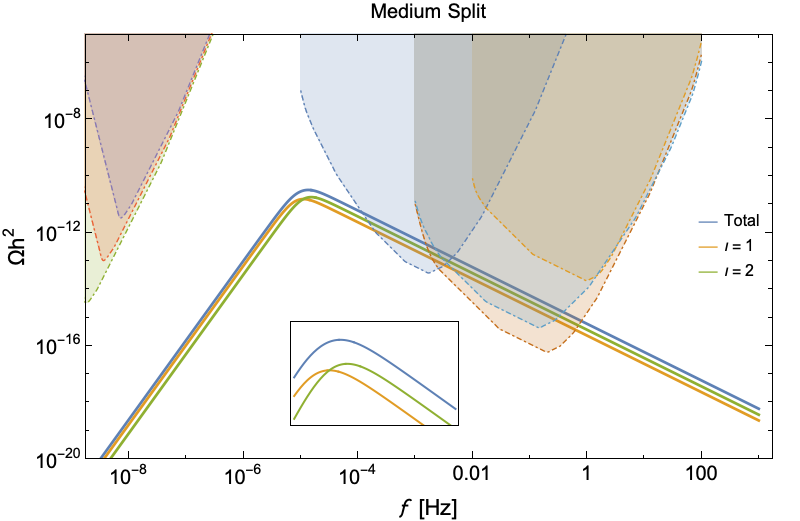
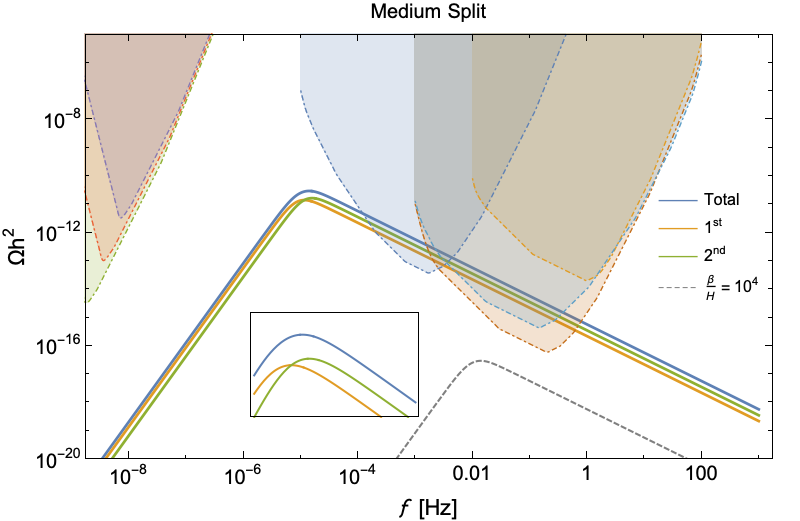
non-runaway material

diff --git a/gwnnDraft02.tex b/gwnnDraft02.tex
@@ -6,6 +6,7 @@
 \usepackage{color}
 \usepackage{slashed}
 \usepackage{soul}
+\usepackage{appendix}
 \graphicspath{{./Figures/}}
 
 
@@ -490,7 +491,7 @@ We assume that the parameters of the SFOPT do not differ between sectors: the re
 \begin{figure}[h!]
 \centering
 \includegraphics[scale=.3]{Nnatral.png} 
-\caption{ Gravitational wave spectral energy density (solid curves) for standard $N$naturalness using the scalar reheaton model of section~\ref{sec:reheat}. The curve corresponding to the sum of the sectors is approximately equal to the $i=1$ curve. All contributions are assumed to be purely from bubble collisions $\Omega_{\phi}$, with $\beta/H  = 10$.  The shaded dashed curves are the power law noise curves~\cite{PhysRevD.88.124032} calculated from expected sensitivity as described in Section~\ref{sec:detection}. The ones on the right are space-based interferometers: Lisa~\citep{Audley:2017drz} (blue), DECIGO~\citep{10.1093/ptep/pty078} (light blue), BBO~\citep{PhysRevD.72.083005} (red). The ones on the left are for the pulsar timing array SKA~\cite{Janssen:2014dka} for exposure time of 5-years (purple), 10-years (orange), and 20-years (green). }
+\caption{ Gravitational wave spectral energy density (solid curves) for standard $N$naturalness using the scalar reheaton model of section~\ref{sec:reheat}. The curve corresponding to the sum of the sectors is approximately equal to the $i=1$ curve. All contributions are assumed to be purely from bubble collisions $\Omega_{\phi}$. The colored solid lines use $\beta/H  = 10$ where as the dashed gray line is the total contribution of all sectors for $\beta/H  = 10^4$.  The shaded dashed curves are the power law noise curves~\cite{PhysRevD.88.124032} calculated from expected sensitivity as described in Section~\ref{sec:detection}. The ones on the right are space-based interferometers: Lisa~\citep{Audley:2017drz} (blue), DECIGO~\citep{10.1093/ptep/pty078} (light blue), BBO~\citep{PhysRevD.72.083005} (red). The ones on the left are for the pulsar timing array SKA~\cite{Janssen:2014dka} for exposure time of 5-years (purple), 10-years (orange), and 20-years (green). }
 \label{fig::Nnatural}
 \end{figure}
 Applying this to the standard reheating scenario of $N$natrualness, introduced in~\ref{sec:reheat}, we get GW signals as seen in Fig.~\ref{fig::Nnatural}. Plotted are the individual contributions to the signal from each phase transitioned sector, as well as the coherent sum of all sectors. Future GW interferometers and pulsar timing array sensitivity curves are shown in comparison to the signal. The sensitivity curves are interpreted as the region of possible detection if intersected with the GW signal, and the construction of these curves is detailed in Section~\ref{sec:detection}. Notice that the total signal is dominated by the first sector's contribution. This is caused by the quartic temperature ratio suppression in Eq.~(\ref{eq:alpha}) and the large temperature gaps between adjacent sectors. Such a suppression leads to standard $N$natrualness evading future detector thresholds by a few orders of magnitude in units of energy density. 
@@ -586,7 +587,7 @@ The frequency dependence in Eq.~(\ref{eqn::spectralshape}) takes the form of $f/
 \includegraphics[width=.45\textwidth]{energydensity.png} 
 \end{minipage}
 \hfill
-\caption{ Gravitational wave spectral energy density for the various scenarios found in Tab.~(\ref{tab:cases}).  All contributions are assumed to be purely from runaway bubble collisions $\Omega_{\phi}$, with $\beta/H  = 10$. The inset is a closer look at the region around the peaks. The shaded curves are the same as Fig.~\ref{fig::Nnatural}.   }
+\caption{ Gravitational wave spectral energy density for the various scenarios found in Tab.~(\ref{tab:cases}).  All contributions are assumed to be purely from runaway bubble collisions $\Omega_{\phi}$. The colored solid lines use $\beta/H  = 10$ where as the dashed gray line is the total contribution of all sectors for $\beta/H  = 10^4$. The inset is a closer look at the region around the peaks for the $\beta/H  = 10$ case. The shaded curves are the same as Fig.~\ref{fig::Nnatural}.   }
 \label{fig:Haa}
 \end{figure*}
 
@@ -636,6 +637,61 @@ Shifting to the other part of our framework, our results leads to the question `
 \section*{Acknowledgements}
 
 We thank Yang Bai, Djuna Croon, Kevin Earl, and Yuhsin Tsai for helpful discussions. P.A.S. and D.L. both thank the 2018 Theoretical Advanced Study Institute in Elementary Particle Physics Program (TASI) for setting up a platform for discussion which seeded the genesis of this project. This work was supported in part by the Natural Sciences and Engineering Research Council of Canada (NSERC). D.L. acknowledges support from the NSERC Postgraduate Scholarships-Doctoral Program (PGS D).
+
+\appendix
+\section*{Appendix: Non-runaway phase transitions}
+\label{sec:appendix}
+
+If the phase transition occurs in the non-runaway regime $(\alpha_{\infty} > \alpha)$, the dominant contributions to the GW energy densities are given by the sound wave $h^2\Omega_{v}$ and MHD $h^2\Omega_{v}$ components,
+\begin{equation}\label{eqn:Spectralnonrun}
+h^2\Omega_{\textrm{GW}} \approx  h^2\Omega_{v} + h^2\Omega_{turb}.
+\end{equation}
+
+\begin{figure*}[tb]
+\centering
+\begin{minipage}[c]{\textwidth}
+\includegraphics[width=.45\textwidth ]{MaxSW.png}
+\hfill
+\includegraphics[width=.45\textwidth]{LargeSW.png} 
+\hfill
+\includegraphics[width=.45\textwidth]{MedSW.png} 
+\hfill
+\includegraphics[width=.45\textwidth]{FiveSW.png} 
+\end{minipage}
+\hfill
+\caption{ Gravitational wave spectral energy density for the various scenarios found in Tab.~(\ref{tab:cases}).  All contributions are assumed to be from a non-runaway phase transition with terminal velocity $v = 0.95$. The colored solid lines use $\beta/H  = 10$ where as the dashed gray line is the total contribution of all sectors for $\beta/H  = 10^4$ . The shaded curves are the same as Fig.~\ref{fig::Nnatural}. In contrast to the runaway case, most scenarios evade the projected sensistivies of future experiments and therefore is the less optimal situation }
+\label{fig:Haasw}
+\end{figure*}
+
+The new contributions to the GW energy density take on a different form from Eq.~(\ref{eqn::GWengdensity}),
+
+\begin{equation}
+\begin{split}
+h^2\Omega_{v}^* = 1.6 \times 10^{-1} \, v  \, \bigg( \frac{\kappa_{v}\;  \alpha}{1 + \alpha} \bigg)^2 \bigg( \frac{H}{\beta} \bigg)^1  S_{v}(f),
+\\
+h^2\Omega_{turb}^* = 2.01\times 10^{1} \, v \, \bigg( \frac{\kappa_{turb} \; \alpha}{1 + \alpha} \bigg)^{3/2} \bigg( \frac{H}{\beta} \bigg)^1  S_{turb}(f).
+\end{split}
+\end{equation}
+Where unlike the runaway case, we do not assume $v = 1$ due to the bubbles reaching a terminal velocity. The MHD effieceny factor is a fraction of the sound waves, $\kappa_{turb} = \epsilon\kappa_{v}$. Current similations have motivated a range of $\epsilon \sim 0.05 - 0.10$, where we take the optimistic case of $\epsilon = 0.10$. Both contributions have unique spectral shapes, given to be, 
+
+\begin{equation}
+\begin{split}
+S_{v}(f) = (f/f_{p,v})^3\bigg(\frac{7}{4+3(f/f_{p,v})^2}\bigg)^{7/2},
+\\
+S_{turb}(f) = \frac{(f/f_{p,turb})^{3}}{(1 + f/f_{p,turb})^{11/3} (1 + 8\pi(f/H))}.
+\end{split}
+\end{equation}
+The MHD energy density has a spectral shape dependent on the hubble rate at the time of nucleation, $H$.  Similar to the scalar spectral shape in Eq.~(\ref{eqn::spectralshape}), the frequencies are scaled by their respective temperature dependent peak frequency, 
+
+\begin{equation}
+\begin{split}
+f_{p,v} = 1.9 \times 10^{-5} \, \textrm{Hz}\, \frac{1}{v} \bigg( \frac{\beta}{H}\bigg)\bigg(\frac{T_{\gamma}}{100 \, \textrm{GeV}}\bigg)\bigg(\frac{g_{*}}{100}\bigg)^{\frac{1}{6}},
+\\
+f_{p,turb} =  2.7 \times 10^{-5} \, \textrm{Hz}\, \frac{1}{v} \bigg( \frac{\beta}{H}\bigg)\bigg(\frac{T_{\gamma}}{100 \, \textrm{GeV}}\bigg)\bigg(\frac{g_{*}}{100}\bigg)^{\frac{1}{6}},
+\end{split}
+\end{equation}
+
+We evolve the frequencies and energy densities with the same redshift factors, Eq.~(\ref{eqn::redshifting}) from Sec~\ref{sec:gw}. Fig.~\ref{fig:Haasw} shows the sum of the GW energy density for the scenarios in Table~\ref{tab:cases}, but instead for the non-runaway case, with a terminal velocity of $v = 0.95$.
 
 
 %%%%%%%%%%%%%%%%%%%%%%%%%
